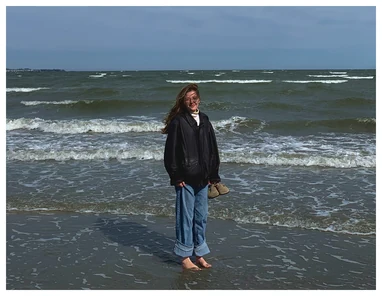
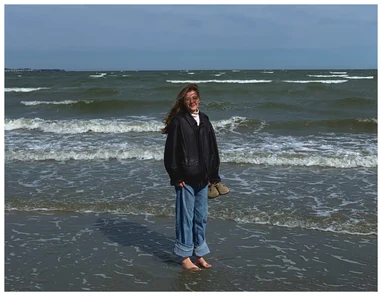
About photos: thinner baked-in white borders, drop CSS borders
Claude-Session: https://claude.ai/code/session_015jk89ALhmaMZFLte5xrJwg

Changed region(s): [[0.0, 0.0, 1.0, 1.0]]

diff --git a/index.html b/index.html
@@ -35,11 +35,11 @@
 
     <a class="collage" href="about.html" aria-label="About Bella">
         <img class="collage__item collage__folder-back" src="assets/collage/folder-back.webp" alt="">
-        <img class="collage__item collage__photo-50 collage__bordered" src="assets/about/adobe-talk.webp" alt="">
+        <img class="collage__item collage__photo-50" src="assets/about/adobe-talk.webp" alt="">
         <img class="collage__item collage__photo-51" src="assets/about/trinity.webp" alt="">
         <img class="collage__item collage__polaroid" src="assets/about/polaroid.png" alt="">
-        <img class="collage__item collage__photo-52 collage__bordered" src="assets/about/beach.webp" alt="">
-        <img class="collage__item collage__photo-53 collage__bordered" src="assets/about/pratt.webp" alt="">
+        <img class="collage__item collage__photo-52" src="assets/about/beach.webp" alt="">
+        <img class="collage__item collage__photo-53" src="assets/about/pratt.webp" alt="">
         <img class="collage__item collage__photo-54" src="assets/about/reality-awaits.webp" alt="">
         <img class="collage__item collage__folder-front" src="assets/collage/folder-front.webp" alt="">
     </a>

diff --git a/about.css b/about.css
@@ -120,16 +120,6 @@ body.about {
 
 .about-photo { rotate: var(--r, 0deg); }
 
-/* Exports without a white border of their own get one here */
-.about-photo--beach,
-.about-photo--statue,
-.about-photo--stage,
-.about-photo--building {
-    border: 3px solid #fff;
-}
-
-.about-photo--statue { border-width: 4px; }
-
 .about-logos {
     position: absolute;
     inset: 0;

diff --git a/site.css b/site.css
@@ -157,12 +157,6 @@
     box-shadow: 0 4px 7.9px rgba(0, 0, 0, 0.14);
 }
 
-/* Same photo files and white border as the about page, so the photos look
-   identical when they fly between the two pages. */
-.collage__bordered {
-    border: 3px solid #fff;
-}
-
 .collage__photo-52 {               /* beach */
     left: 125.24px;
     bottom: -21.76px;
